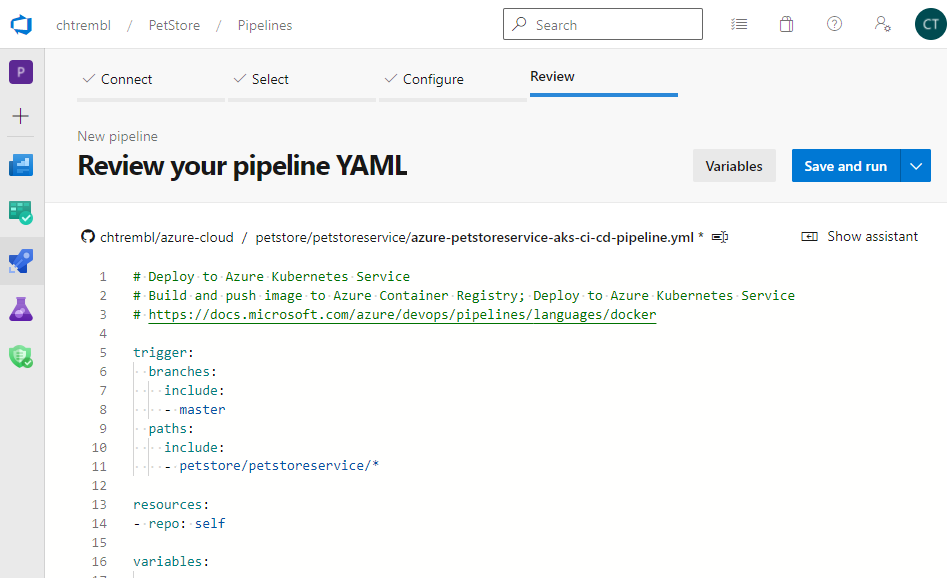
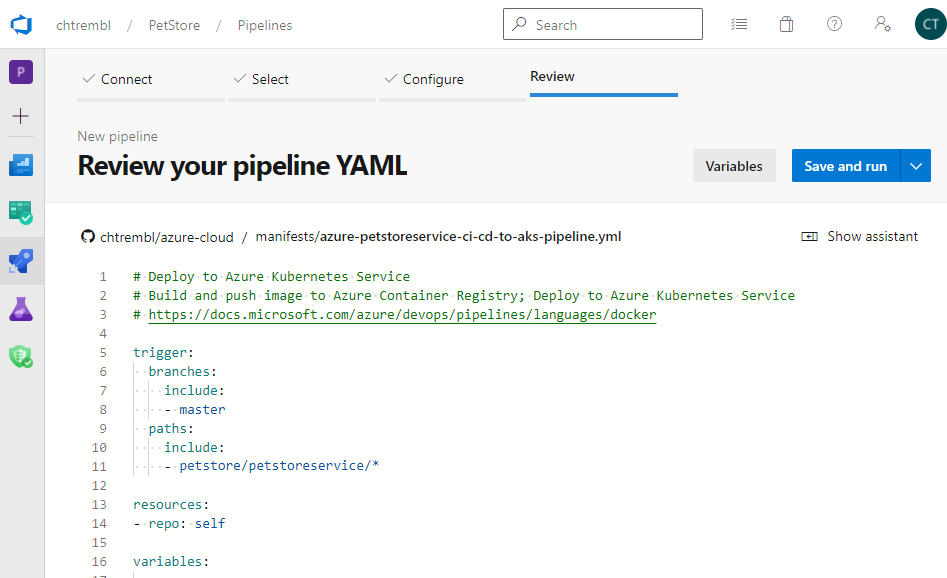
updates

Changed region(s): [[0.2756, 0.4048, 0.7656, 0.436]]

diff --git a/petstore/06-configure-ado-pipeline-for-ci-cd-into-aks/README.md b/petstore/06-configure-ado-pipeline-for-ci-cd-into-aks/README.md
@@ -2,7 +2,164 @@
 
 __This guide is part of the [Azure Pet Store App Dev Reference Guide](../README.md)__
 
-## Coming Soon
+In this section, we'll Configure an Azure DevOps Pipeline for Pet Store Service CI/CD into Azure Kubernetes Service
+
+By now you have a CI/CD GitHub Action that you can expirement with. This guide will give you a DevOps Pipeline with very similar tasks. We will then tie them together.
+
+This Pipeline will execute on any commit to petstoreapp, executing security scannning using Cred Scan, create a version file with build meta data (useful at runtime), execute unit test/code coverage (useful for dashboard metrics) and last but not least compile Compile the Spring Boot Pet Store Service, build the Docker Image and Deploy into AKS.
+
+https://github.com/chtrembl/azure-cloud
+
+Head to Azure DevOps and create and organziation & project if you do not have one (I have an organization called chtrembl and a project called PetStore) and lets get started.
+
+As we did with the GitHub Action, I have the manifests files already created here https://github.com/chtrembl/azure-cloud/tree/main/manifests, Although we can't simply import them, we can reuse them. I will walk you through that below. 
+
+> 📝 Please Note, by now, https://github.com/chtrembl/azure-cloud should be forked.
+
+Within your DevOps Organziation, lets create a new Pipeline. Essentially what we are doing here is asking DevOps to setup the connectors to AKS for us, we will then use this meta data and paste into the manifests from https://github.com/chtrembl/azure-cloud/tree/main/manifests
+
+You should see something similar to the below image:
+
+![](images/ado1.png)
+
+Select GitHub (Where your fork/clone is)
+
+You should see something similar to the below image:
+
+![](images/ado2.png)
+
+Select the azure-cloud fork (or clone if you went that route) 
+
+You should see something similar to the below image:
+
+![](images/ado3.png)
+
+Select Azure Kubernetes Service and your subscription where your AKS Cluster is running (remember from the previous guide 05-create-an-azure-k8s-cluster)
+
+You should see something similar to the below image:
+
+![](images/ado4.png)
+
+Fill in the meta data as seen in the image. 
+
+> 📝 Please Note, if your curious, essentially Azure DevOps will generate Kubernetes Manifests files for you based on this data we enter. We will actually end up overriding all of this with our own manifests seen here https://github.com/chtrembl/azure-cloud/tree/main/manifests but for now go ahead and enter.
+
+    - Cluster (Select your cluster (remember from the previous guide 05-create-an-azure-k8s-cluster))
+    - Namespace Existing & default is fine. (We aren't going to discuss namespaces in this guide)
+    - Container Registry (remember got created for you in guide 00-setup-your-environment)
+    - Image Name is "petstoreservice"
+    - Service Port 8080 
+
+You should see something similar to the below image:
+
+![](images/ado5.png)
+
+Validate and configure, what you will see if a pre generated yml deployment file. There are only a couple of useful things here before we make significant changes
+
+    - Make note of your imagePullSecret
+    - Make note of your dockerRegistryServiceConnection
+
+> 📝 Please Note, At this point Azure DevOps was kind enough to create service connections to Azure Container Registry and AKS for us, automagically. You can see these under Settings > Service Connections, if curious you can take a look (do this in another tab so you dont lose your current work)
+
+You should see something similar to the below image:
+
+![](images/ad010.png)
+
+Anyways, back to this pre generated yml file, its a good start but we want to do more than just deploy. We want to run Cred Scan, Unit Test, Create a version file with Build Meta Data, Compile, Build Docker Image, Push Docker Image and then Deploy to Azure Kubernetes Service. So we will leverage the manifests from https://github.com/chtrembl/azure-cloud/tree/main/manifests 
+
+At this point you made note of the imagePullSecret and dockerRegistryServiceConnection
+
+You should see something similar to the below image:
+
+![](images/ado6.png)
+
+Azure DevOps is asking for your consent on file name of this deployment pipeline along with contents. I like to change the path to manifests/soemthing-more meaningful, for example azure-petstoreservice-ci-cd-to-aks-pipeline or azure-petstoreservice-pipeline. If you are cloning/forking, you will have to pick a different name, Azure DevOps unfortunatley wont commit on an existing version.
+
+Now for the tricky part, remove all of the body contents from the inline editor and paste in the contents from https://github.com/chtrembl/azure-cloud/blob/main/manifests/azure-petstoreservice-ci-cd-to-aks-pipeline.yml
+
+I am going to go through each line you want to review and/or change and why
+
+ - 11 make sure you are executing this pipeline on only changes from petstore/petstoreservice (no need to trigger on petstoreapp changes etc...) (if your cloning/forking this should not change)
+ - 19 overwrite dockerRegistryServiceConnection with the id you copied above
+ - 20 verify imageRepository matches your Azure Container Registry/Image Repository (if your cloning/forking this should not change)
+ - 21 verify your containerRegistry is the one configured in guide guide 00-setup-your-environment (if your cloning/forking this should not change)
+ - 22 verify your path is correct to the Dockefile (if your cloning/forking this should not change)
+ - 24 overwrite imagePullSecret with '$(crImagePullSecret)', we will inject this sensitive value as a pipeline secret below
+ - 89 kubernetesServiceConnection should match your service connection that you made in the previous dialog and can view in your settings/service connections
+ - 98 kubernetesServiceConnection should match your service connection that you made in the previous dialog and can view in your settings/service connections
+ - 100 Azure DevOps Pipelines will create a generic deployment file for you, we are using this one (it's part of your clone/fork) for better naming (just imagine you have multiple pipelines someday)
+ - 101 Azure DevOps Pipelines will create a generic service file for you, we are using this one (it's part of your clone/fork) for better naming (just imagine you have multiple pipelines someday)
+ 
+After you are done editing (dont worry this file will vet versioned in GitHub in the next dialog and you can always make changes at any time)
+
+Click Save and run
+
+You should see something similar to the below image:
+
+![](images/ado7.png)
+
+Enter the ```crImagePullSecret``` secret with the sensitive value that was auto generated, to inject every time this pipeline executes
+
+You should see something similar to the below image:
+
+![](images/ado8.png)
+
+Click Save and run
+
+You should see something similar to the below image:
+
+![](images/ado9.png)
+
+It's gping to source a manifests/deployment.yml and manifests/service.yml for you in GitHub. You can safely remove those in favor of the ones that are preexisting for you.
+
+At this point the build will run, and it will also run any time you make a commit to petstore/petstore service. 
+
+> 📝 Please Note, the build should fail
+
+While this failing build is running, double check your manfiests/petstoreservice-deployment.yml and manifests/petstoreservice-service.yml
+
+You'll want to make sure your using your Azure Container Registry. (I should of probably externalized these but for now you can update them to reflect your own)  
+
+```containers:
+      - name: petstoreservice
+        image: azurepetstorecr.azurecr.io/petstoreservice
+```
+
+Re run the failed pipeline. Once successful you can then regression test.
+
+I like to renane my Pipelines to something more meaningful, you can do so by hovering over the pipeline (there will be an ellipse on the right and select rename)
+
+You should see something similar to the below image:
+
+![](images/ado11.png)
+
+Give it a nice name
+
+You should see something similar to the below image:
+
+![](images/ado12.png)
+
+> 📝 Please Note, Now when you inspect the pipeline, if you scroll all the way down to the bottom of the Deploy to Kubernetes cluster, you will see the Load Balancer IP Address, this will also match your kubectl commands as well if your working on the Azure CLI.
+
+Lets do a curl 
+
+```
+curl http://40.88.201.193/v2/info | json_pp
+```
+
+You should see something similar to the below image:
+
+![](images/cli.png)
+
+You will see the build id (matches Azure Container Registry) as well as the container runtime too!
+
+This is handy to ensure what your viewing at runtime within your application is what mathces what was just built :)
+
+Head to Azure Portal, find your AKS Cluster, view workloads and you'll see the same matching pod as depicted in your curl results
+
+You should see something similar to the below image:
+
+![](images/aks.png)
 
 ---
 ➡ Next guide: [07 - Connect PetStoreApp and PetStoreService together](../07-connect-petstoreapp-and-petstoreservice-together/README.md)
